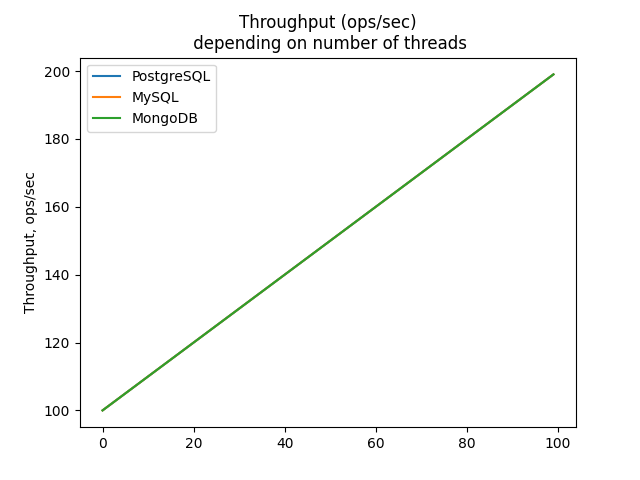
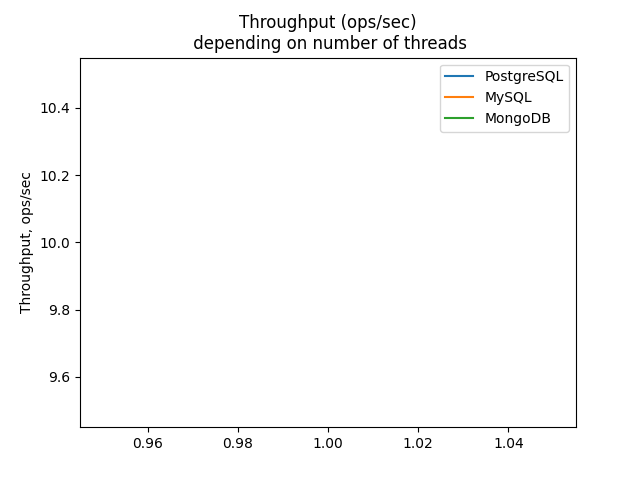
chnages

diff --git a/reporter.py b/reporter.py
@@ -13,8 +13,7 @@ workload_list = [
     {"name":"Workload C: Read only", "alias":"workloadc"}
 ]
 
-#thread_list = [1, 10, 20, 30, 40, 50, 60, 70, 80, 90, 100]
-thread_list = [1]
+thread_list = [1, 10, 20, 30, 40, 50, 60, 70, 80, 90, 100]
 
 for workload in workload_list:
     for stage in ["load", "run"]:
